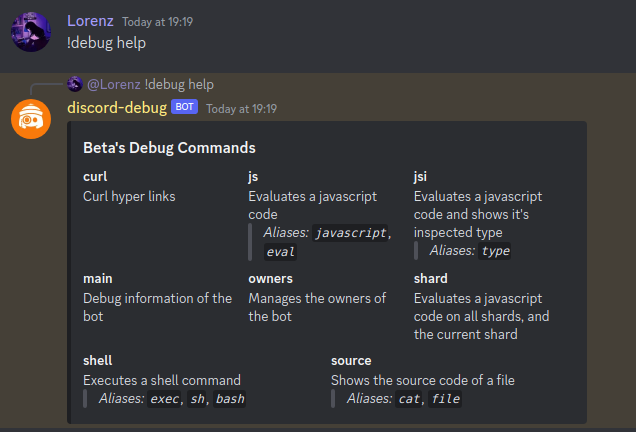
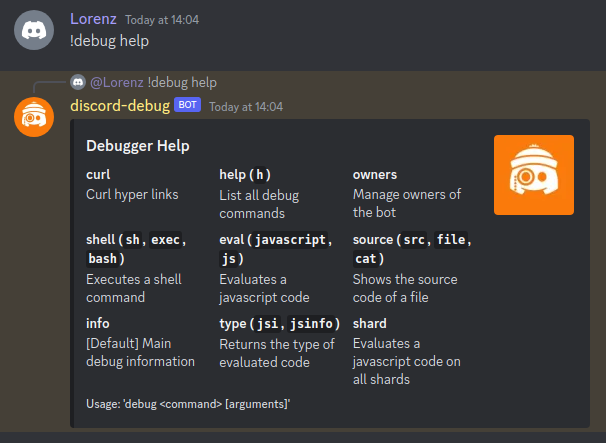
add docs

Changed region(s): [[0.0, 0.1505, 0.9802, 0.9931], [0.0, 0.0, 0.3267, 0.1204]]

diff --git a/README.md b/README.md
@@ -51,7 +51,7 @@ client.on('messageCreate', async (message) => {
     } else if (message.content.startsWith('!debug')) {
         // handle *in* prefix commands!
         const args = message.content.split(' ').slice(1);
-        await debug.run(message, args);
+        await debug.messageRun(message, args);
     }
 });
 
@@ -60,10 +60,50 @@ client.login('token');
 
 ---
 
+## 🧾 Docs
+
+### **constructor(`client`, `options`)**
+
+| Name      | Type                                                                    | Optional | Details                    |
+| --------- | ----------------------------------------------------------------------- | -------- | -------------------------- |
+| `client`  | [Client](https://old.discordjs.dev/#/docs/discord.js/main/class/Client) | ❌       | discord.js Client instance |
+| `options` | Options                                                                 | ✅       | Debugger Options           |
+
+### **`Options`**
+
+| Name                          | Type       | Optional | Details                        | Default              |
+| ----------------------------- | ---------- | -------- | ------------------------------ | -------------------- |
+| `owners`                      | `string[]` | ✅       | Array of owner Ids             | Application Owner(s) |
+| `secrets`                     | `any[]`    | ✅       | Array of secrets               | Client token         |
+| `registerApplicationCommands` | `boolean`  | ✅       | Integrate slash (`/`) commands | `false`              |
+
+### **Methods**
+
+-   `messageRun(message, args?): Promise<Message>`
+
+> | Name      | Type                                                                      | Optional | Details                                                                    |
+> | --------- | ------------------------------------------------------------------------- | -------- | -------------------------------------------------------------------------- |
+> | `message` | [Message](https://old.discordjs.dev/#/docs/discord.js/main/class/Message) | ❌       | discord.js Message instance                                                |
+> | `args`    | `string[]`                                                                | ✅       | Array of splitted message content, **including sub command** and arguments |
+
+-   `addOwner(id): string[]`
+
+> | Name | Type                                                                            | Optional | Details                           |
+> | ---- | ------------------------------------------------------------------------------- | -------- | --------------------------------- |
+> | `id` | [Snowflake](https://old.discordjs.dev/#/docs/discord.js/main/typedef/Snowflake) | ❌       | User ID to add to the owners list |
+
+-   `removeOwner(id): string[]`
+
+> | Name | Type                                                                            | Optional | Details                                |
+> | ---- | ------------------------------------------------------------------------------- | -------- | -------------------------------------- |
+> | `id` | [Snowflake](https://old.discordjs.dev/#/docs/discord.js/main/typedef/Snowflake) | ❌       | User ID to remove from the owners list |
+
+---
+
 ## 📜 Debug Commands Help
 
 -   Default:
-![help](assets/help.png)
+    ![help](assets/help.png)
 
 -   Custom:
     > `discord-debug` comes with an exported **`commands`** collection of all commands.
